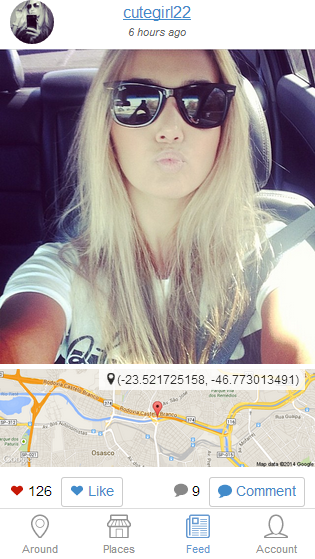
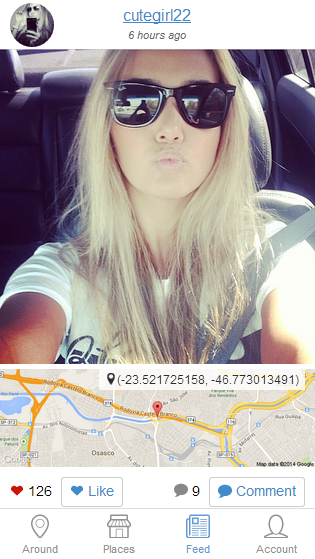
screens fix

Changed region(s): [[0.3714, 0.0, 0.6, 0.0912], [0.0286, 0.0, 0.1714, 0.0912]]

diff --git a/index.html b/index.html
@@ -24,7 +24,7 @@
       <section>
         
         <h1 style="padding-top:0px;color:#428bca;display:inline-block;">
-          <img src="img/icon.png" style="width: 40px;position: relative;top: 8px;margin-right: 10px;" />Instaround
+          <!-- <img src="img/icon.png" style="width: 40px;position: relative;top: 8px;margin-right: 10px;" /> -->Instaround
         </h1>
         <select id="lang" style="float: right;position: relative;top: 14px;height: 31px;" onchange="changeLang()">
           <option value="English">English</option>
